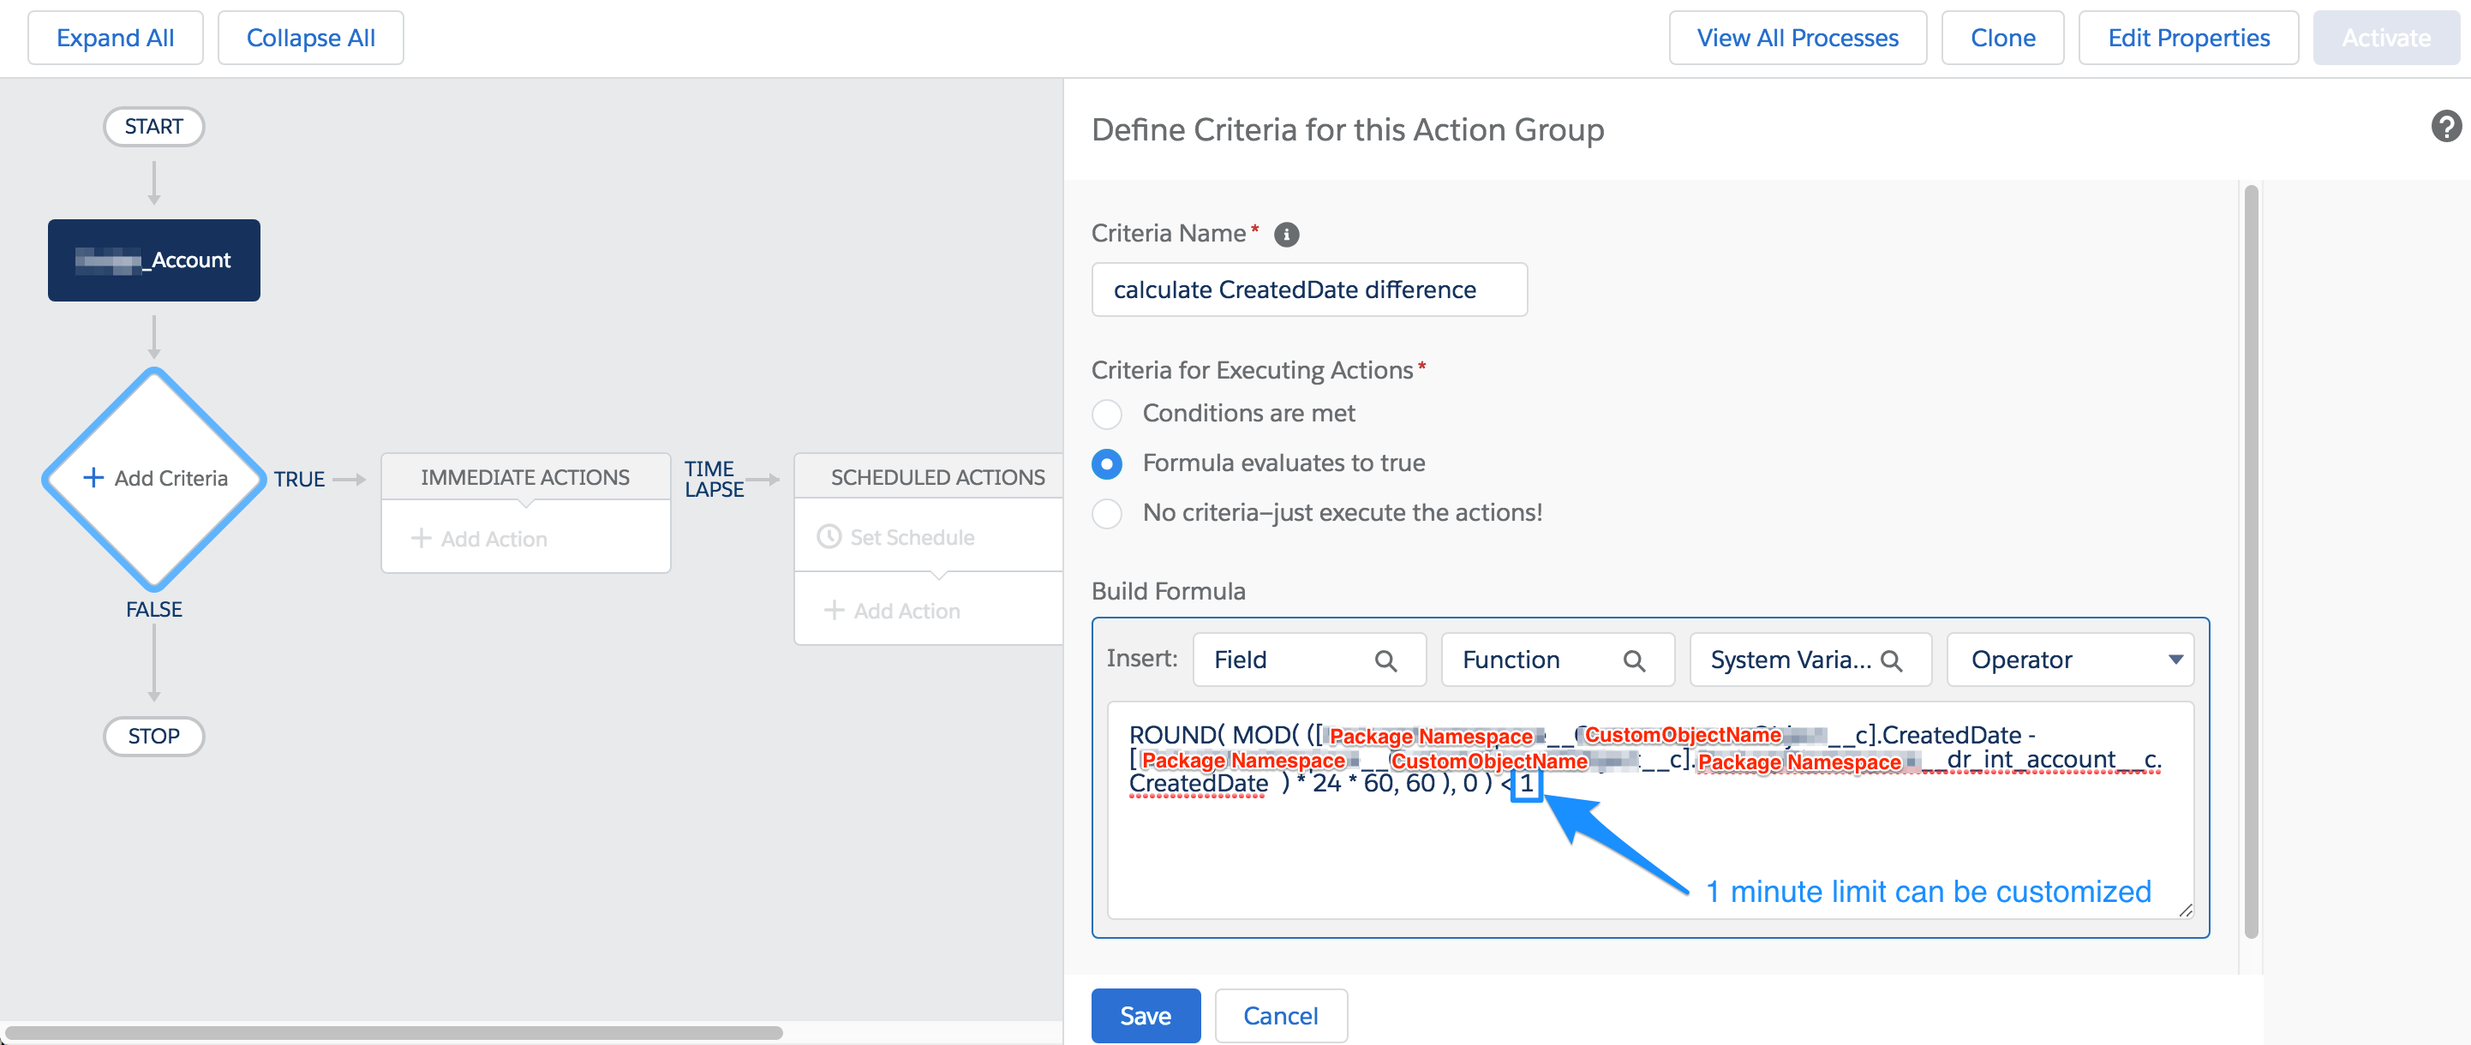
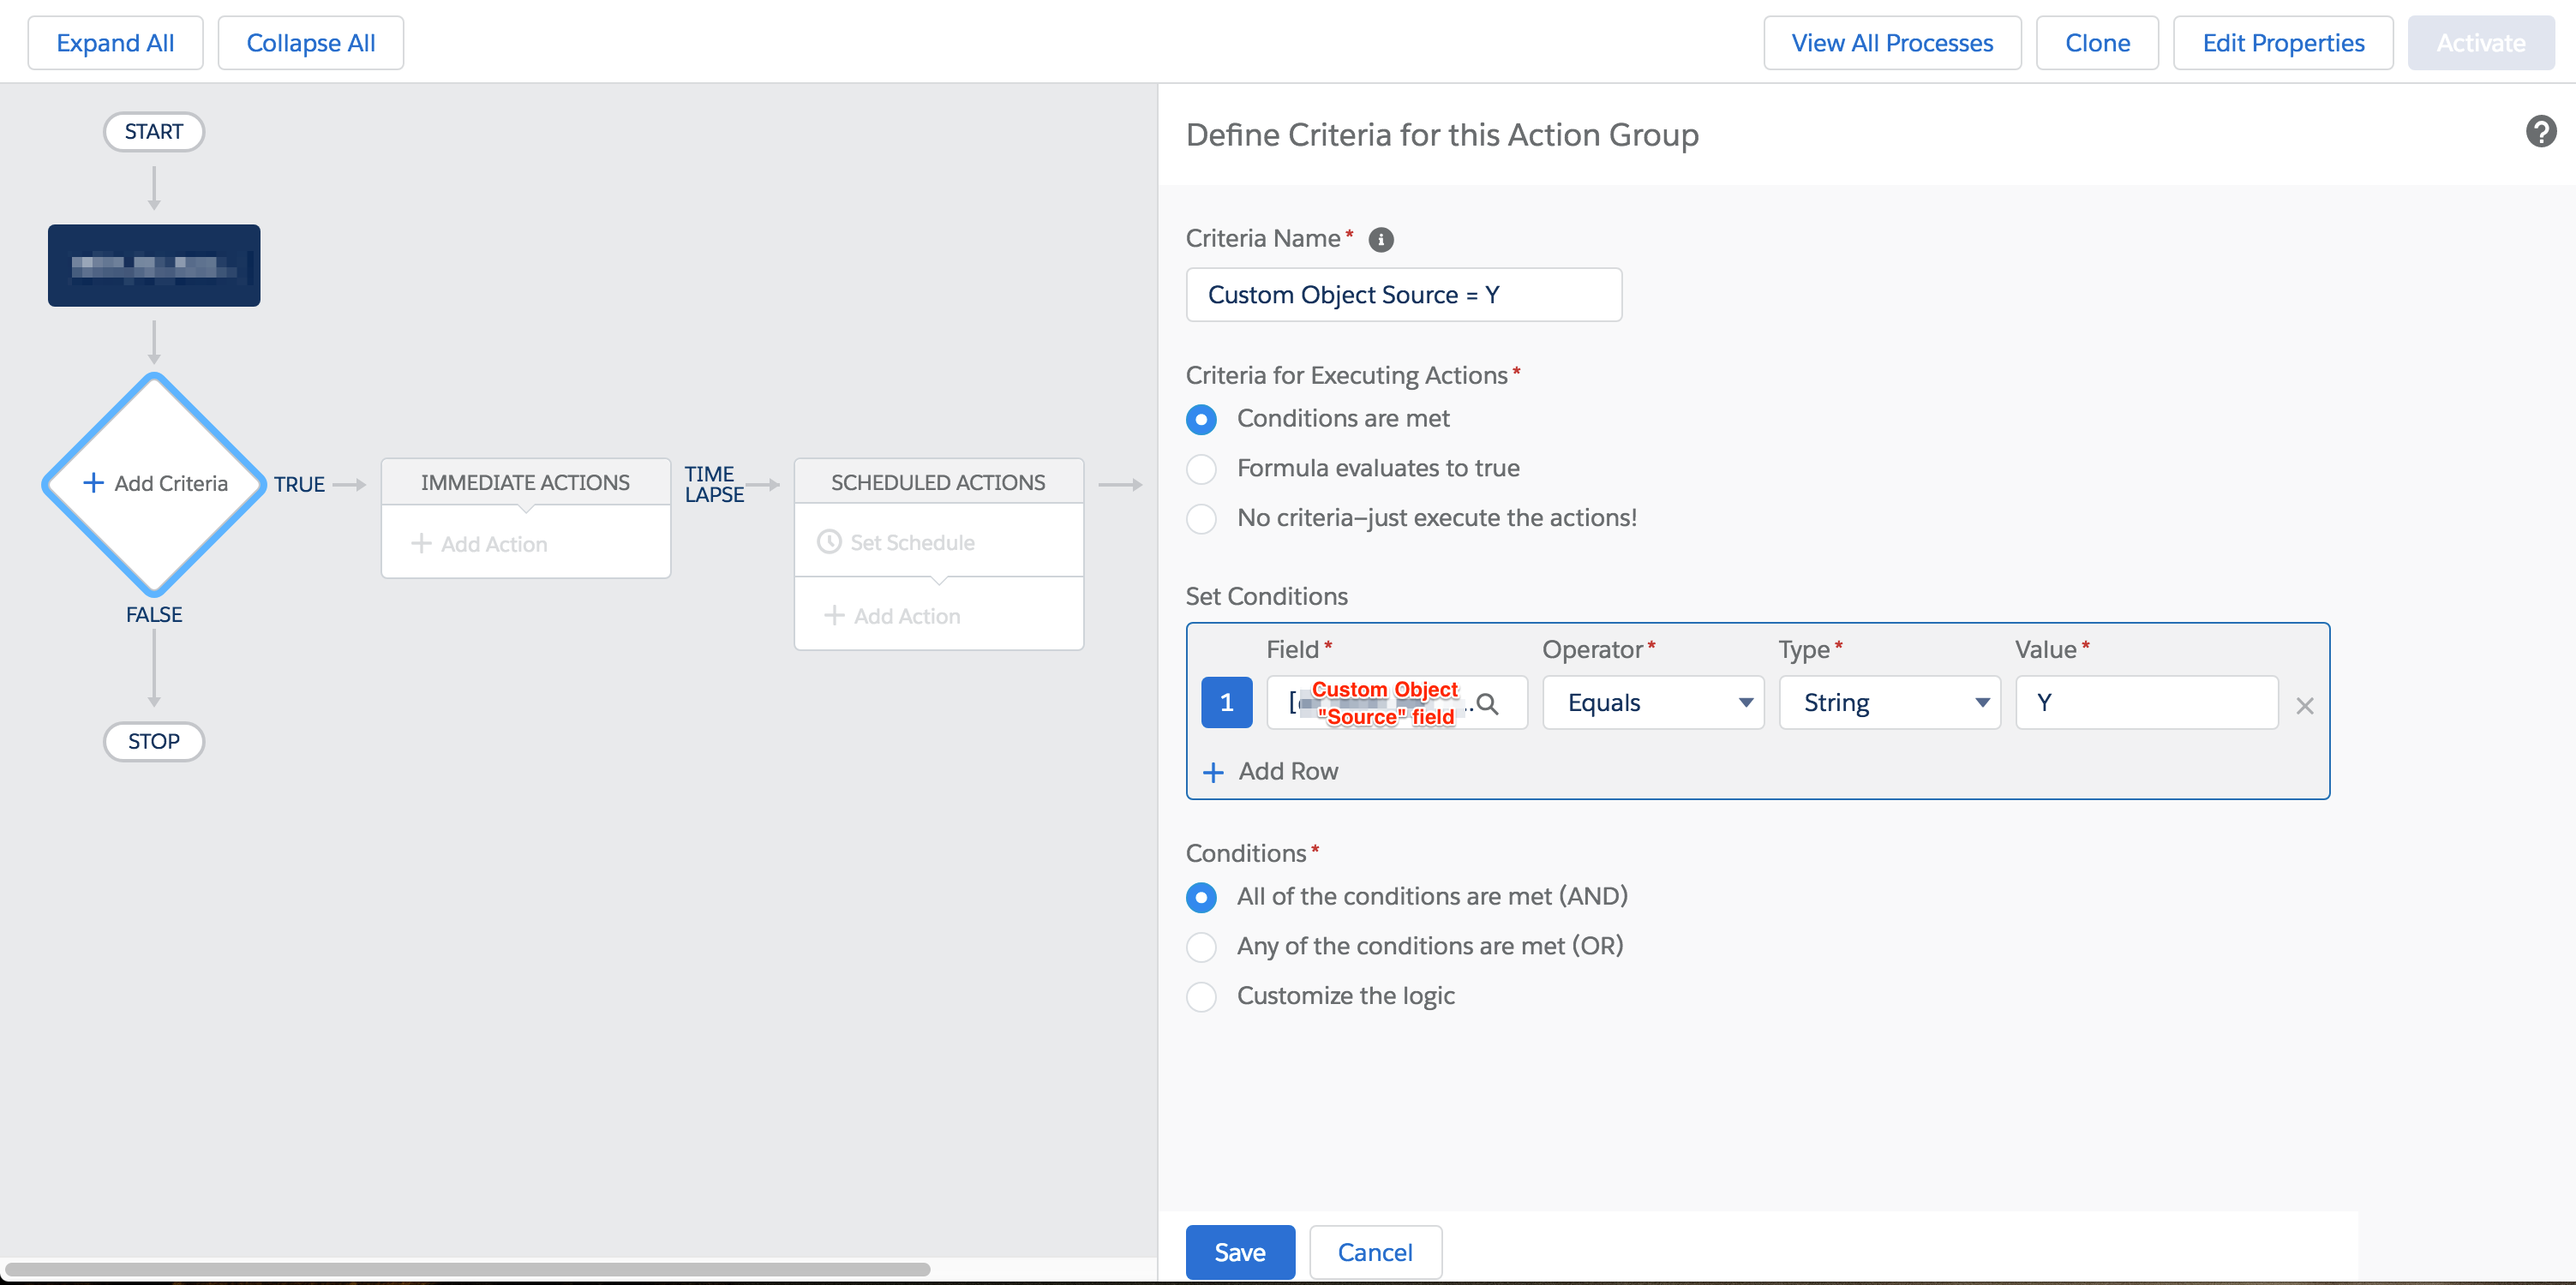
update lead source to use new source field on custom objects

diff --git a/_entries/1520_processbuilder.md b/_entries/1520_processbuilder.md
@@ -16,7 +16,7 @@ Name the process (i.e. Set Source on *{Account|Contact|Lead}* to *{picklist valu
 ![Process_Builder_NewProcess]({{ site.baseurl }}/img/1500/Process_Builder_NewProcess.png)  
 
 >Click **Add Object**  
-  ・    Object: Choose Account|Contact|Lead custom object depending on which process is being built (ex, *ABC_Account, ABC_Contact, ABC_Account_Lead*)  
+  ・    Object: Choose Account|Contact|Lead custom object depending on which process is being built (ex, *ABC_Account, ABC_Contact, ABC_Contact_Lead*)  
   ・    Start the process **only when a record is created**    
   ・    Click **Save**  
 
@@ -24,23 +24,15 @@ Name the process (i.e. Set Source on *{Account|Contact|Lead}* to *{picklist valu
 
 
 >Click **Add Criteria**   
-  ・    Criteria Name: **calculate CreatedDate difference** (This name is not important)  
-  ・    Criteria for Executing Actions: **Formula evaluates to true**  
-  ・    Build Formula: Choose one of the 3 formulas below depending on which process is being built.  Replace **PackageNamespace** and the **Custom Object** names.  
-
-  *The formula calculates if the custom object was created within 1 minute of the standard object.  It is assuming that the standard object was created by the package if they are created within a minute of each other.  The time period can be customized by changing the value after **<** in the formulas below.*  
-
-**Accounts:**  
-
-```ROUND(MOD(([PackageNamespace__CustomAccountObject__c].CreatedDate-[PackageNamespace__CustomAccountObject__c].PackageNamespace__dr_int_account__c.CreatedDate)* 24 * 60, 60 ), 0 ) < 1```
-
-**Contacts:**  
-
-```ROUND(MOD(([PackageNamespace__CustomContactObject__c].CreatedDate-[PackageNamespace__CustomContactObject__c].PackageNamespace__dr_int_contact__c.CreatedDate) * 24 * 60, 60 ), 0 ) < 1```
-
-**Leads:**   
-
-```ROUND(MOD(([PackageNamespace__CustomAccountLeadObject__c].CreatedDate-[PackageNamespace__CustomAccountLeadObject__c].PackageNamespace__dr_int_lead__c.CreatedDate) * 24 * 60, 60 ), 0 ) < 1```
+  ・    Criteria Name: **Custom Object Source = Y** (This name is not important)  
+  ・    Criteria for Executing Actions: **Conditions are met**  
+  ・    Set Conditions: Choose the Source field.  
+      ・    Field = Source field  
+      ・    Operator = Equals  
+      ・    Type = String  
+      ・    Value = Y  
+  ・    Conditions **All of the conditions are met (AND)**  
+  ・    **Save**  
 
 ![Process_Builder_AddCriteria]({{ site.baseurl }}/img/1500/Process_Builder_AddCriteria.png)
 

diff --git a/_entries/1500_setleadsource.md b/_entries/1500_setleadsource.md
@@ -3,8 +3,11 @@ sectionclass: h2
 sectionid: setleadsource
 parent-id: documentation
 number: 1500
-title: Set up Lead Source with Process Builder
+title: Set up Lead Source with Process Builder (Optional)
 ---
+>This configuration is **optional** and availabilty will depend on the version of your Salesforce Package.  Please talk to your data provider to see if this feature is available to you.  
+{:.warning}
+
 >Assigning a custom lead/account source value to records created by the Salesforce package is a recommended best practice.  A few of the benefits are:  
 
 ●  Administrators are able to identify records added by the prospecting feature  
@@ -16,4 +19,4 @@ title: Set up Lead Source with Process Builder
 ●  Obtain System administrator access to the Salesforce org   
 ●  Decide on a custom source picklist value.  It is recommended to use the package name. This will be referred to as **picklist value** in the Process Builder instructions.  
 ●  Identify the Salesforce package's namespace. (Setup > Installed Packages > value in the table under "Namespace Prefix").  This will be referred to as **PackageNamespace** in the Process Builder instructions.  
-●  Identify the Salesforce package's names for the custom account, contact, and lead objects (Setup > Objects > list of objects for the installed package). These will be referred to as **CustomAccountObject, CustomContactObject,** and **CustomAccountLeadObject** in the Process Builder instructions.  
+●  Identify the Salesforce package's names for the custom account, contact, and lead objects (Setup > Objects > list of objects for the installed package). These will be referred to as **CustomAccountObject, CustomContactObject,** and **CustomContactLeadObject** in the Process Builder instructions.  
